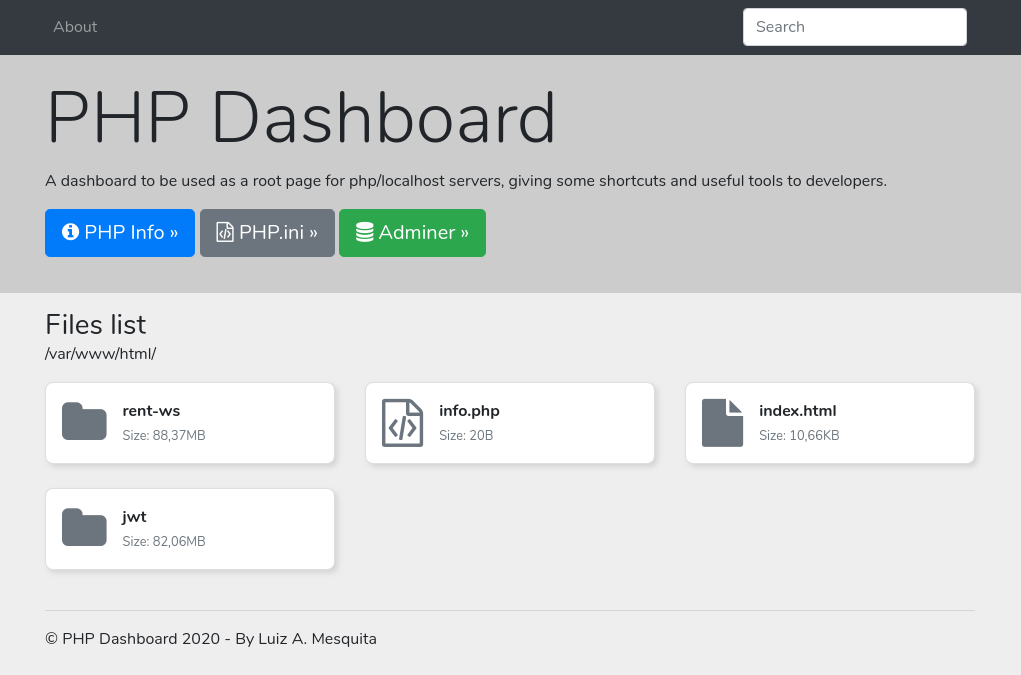
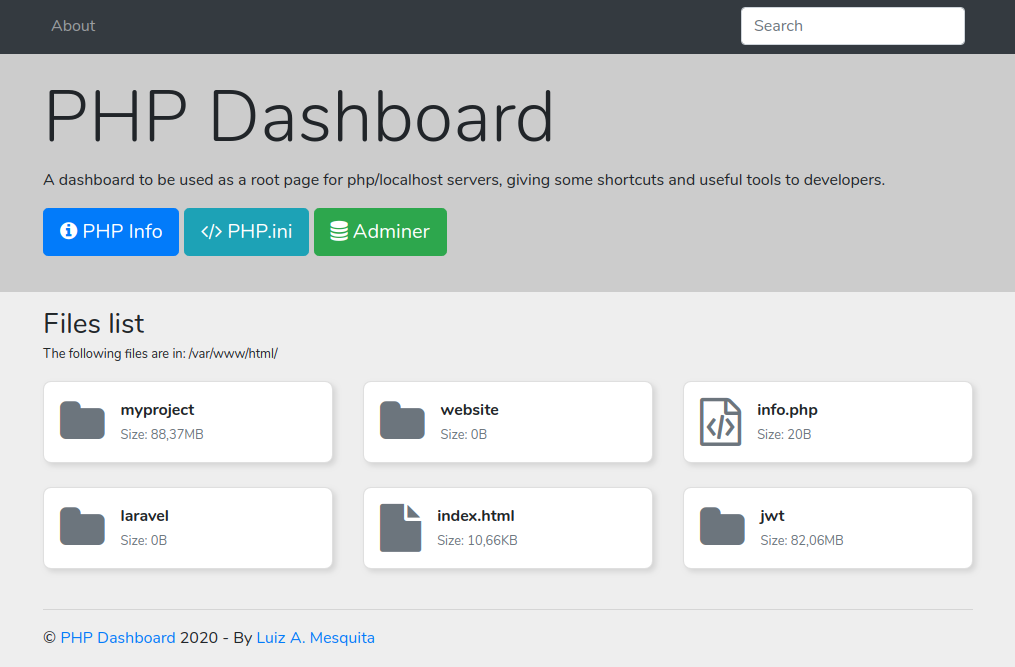
refactor: remove index.php comments and update screenshot

diff --git a/index.php b/index.php
@@ -152,15 +152,6 @@ $mysqli = new mysqli("localhost", "root", "root");
           <li class="nav-item">
             <a class="nav-link" href="javascript:void(0)" data-toggle="modal" data-target="#exampleModal">About</a>
           </li>
-
-          <!-- <li class="nav-item dropdown">
-            <a class="nav-link dropdown-toggle" href="https://getbootstrap.com/docs/4.5/examples/jumbotron/#" id="dropdown01" data-toggle="dropdown" aria-haspopup="true" aria-expanded="false">Dropdown</a>
-            <div class="dropdown-menu" aria-labelledby="dropdown01">
-              <a class="dropdown-item" href="https://getbootstrap.com/docs/4.5/examples/jumbotron/#">Action</a>
-              <a class="dropdown-item" href="https://getbootstrap.com/docs/4.5/examples/jumbotron/#">Another action</a>
-              <a class="dropdown-item" href="https://getbootstrap.com/docs/4.5/examples/jumbotron/#">Something else here</a>
-            </div>
-          </li> -->
         </ul>
         <form class="form-inline my-2 my-lg-0">
           <input id="filter" class="form-control mr-sm-2" type="text" placeholder="Search" aria-label="Search">
@@ -177,9 +168,9 @@ $mysqli = new mysqli("localhost", "root", "root");
         <h1 class="display-3">PHP Dashboard</h1>
         <p>A dashboard to be used as a root page for php/localhost servers, giving some shortcuts and useful tools to developers.</p>
         <p>
-          <a class="btn btn-primary btn-lg" href="php-dashboard/info.php" role="button"><i class="fa fa-info-circle" aria-hidden="true"></i> PHP Info »</a>
-          <a class="btn btn-secondary btn-lg" href="javascript:void(0)" data-toggle="modal" data-target="#phpIni"><i class="fa fa-file-code-o" aria-hidden="true"></i> PHP.ini »</a>
-          <a class="btn btn-success btn-lg" href="php-dashboard/adminer" role="button"><i class="fa fa-database" aria-hidden="true"></i> Adminer »</a>
+          <a class="btn btn-primary btn-lg" href="php-dashboard/info.php" role="button"><i class="fa fa-info-circle" aria-hidden="true"></i> PHP Info</a>
+          <a class="btn btn-info btn-lg" href="javascript:void(0)" data-toggle="modal" data-target="#phpIni"><i class="fa fa-code" aria-hidden="true"></i> PHP.ini</a>
+          <a class="btn btn-success btn-lg" href="php-dashboard/adminer" role="button"><i class="fa fa-database" aria-hidden="true"></i> Adminer</a>
         </p>
         <?php
         if (mysqli_connect_errno()) { ?>
@@ -193,10 +184,10 @@ $mysqli = new mysqli("localhost", "root", "root");
 
     <div class="container">
       <h3 class="mt-3 mb-0">Files list</h3>
-      <p><?= get_root() ?></p>
+      <small> The following files are in: <?= get_root() ?></small>
       <!-- Example row of columns -->
 
-      <div class="row">
+      <div class="row mt-3">
         <?php foreach ($files as $file) { ?>
           <?php $file_ext = !ext($file) && is_dir($file) ? "dir" : ext($file);
 
@@ -204,6 +195,7 @@ $mysqli = new mysqli("localhost", "root", "root");
           switch ($file_ext) {
             case 'txt':
             case 'php':
+            case 'js':
               $icon = 'fa-file-code-o';
               break;
             case 'dir':
@@ -213,6 +205,7 @@ $mysqli = new mysqli("localhost", "root", "root");
             case 'png':
             case 'gif':
             case 'svg':
+            case 'bmp':
               $icon = 'fa-file-image-o';
               break;
             default:
@@ -290,14 +283,14 @@ $mysqli = new mysqli("localhost", "root", "root");
   </div>
 
   <footer class="container">
-    <p>© PHP Dashboard 2020 - By Luiz A. Mesquita</p>
+    <p>© <a href="https://github.com/luizalbertobm/php-dashboard">PHP Dashboard</a> 2020 - By <a href="https://www.linkedin.com/in/luizalbertobm/">Luiz A. Mesquita</a></p>
   </footer>
   <script src="https://cdnjs.cloudflare.com/ajax/libs/jquery/3.5.1/jquery.slim.min.js" integrity="sha512-/DXTXr6nQodMUiq+IUJYCt2PPOUjrHJ9wFrqpJ3XkgPNOZVfMok7cRw6CSxyCQxXn6ozlESsSh1/sMCTF1rL/g==" crossorigin="anonymous"></script>
   <script>
     window.jQuery || document.write('<script src="/docs/4.5/assets/js/vendor/jquery.slim.min.js"><\/script>')
-    $('#filter').keyup(function(){
-      $('.card:not(:contains('+ $(this).val() +'))').parent().hide();
-      $('.card:contains('+ $(this).val() +')').parent().show(); 
+    $('#filter').keyup(function() {
+      $('.card:not(:contains(' + $(this).val() + '))').parent().hide();
+      $('.card:contains(' + $(this).val() + ')').parent().show();
     })
   </script>
   <script src="https://code.jquery.com/jquery-3.5.1.slim.min.js" integrity="sha384-DfXdz2htPH0lsSSs5nCTpuj/zy4C+OGpamoFVy38MVBnE+IbbVYUew+OrCXaRkfj" crossorigin="anonymous"></script>
